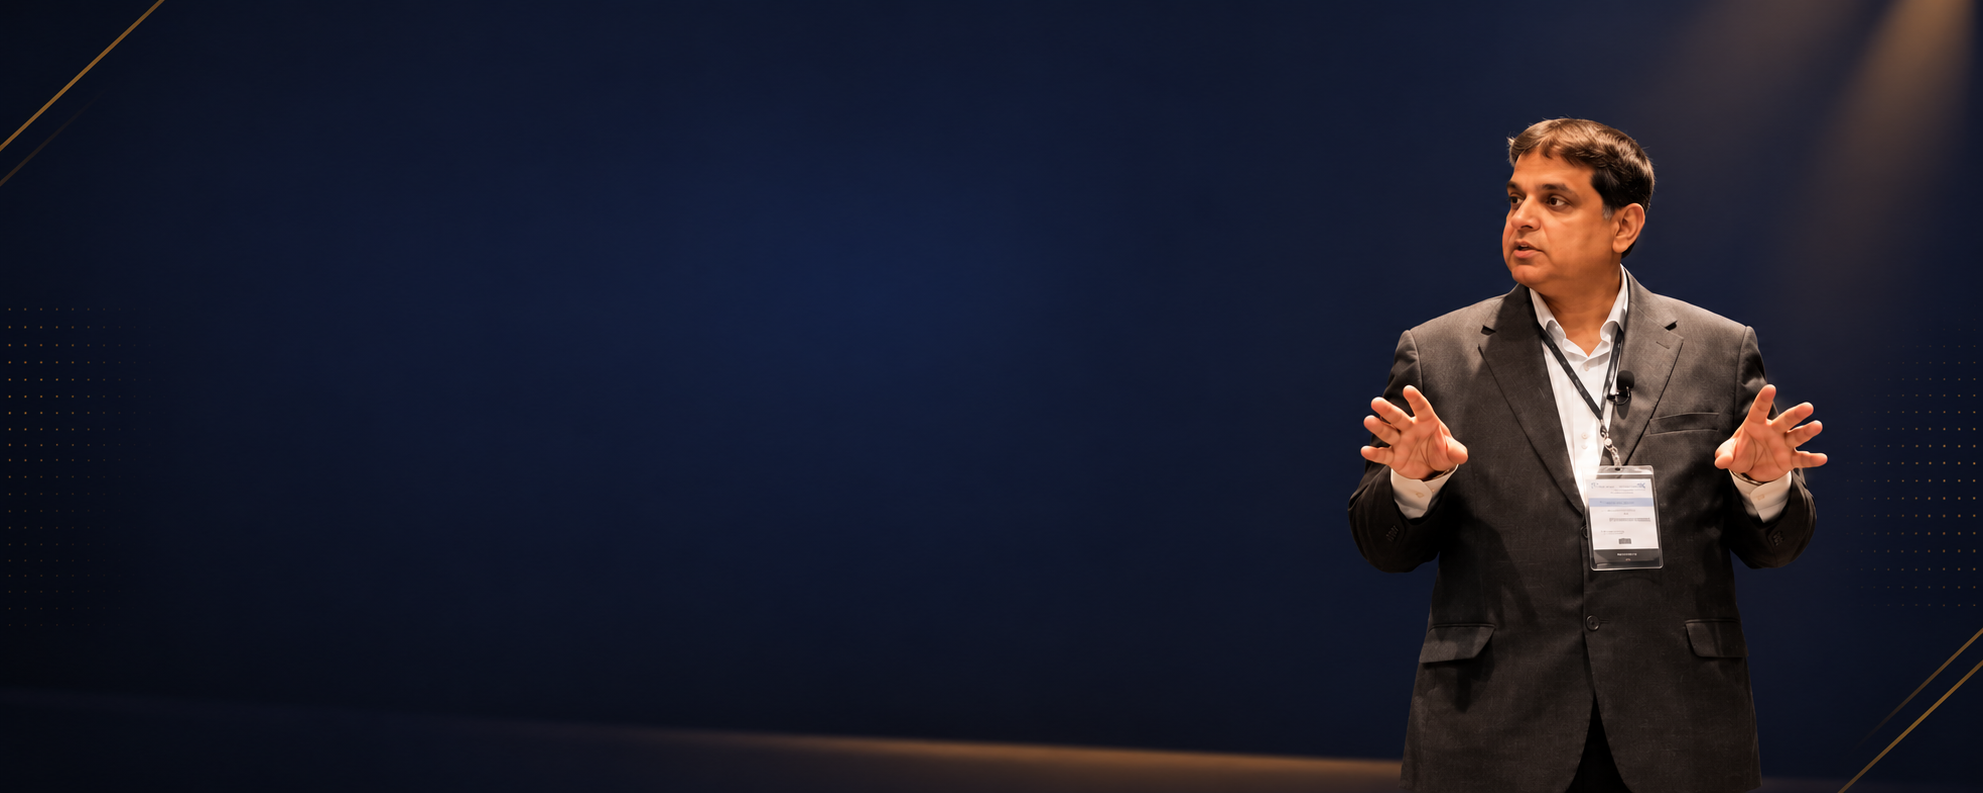
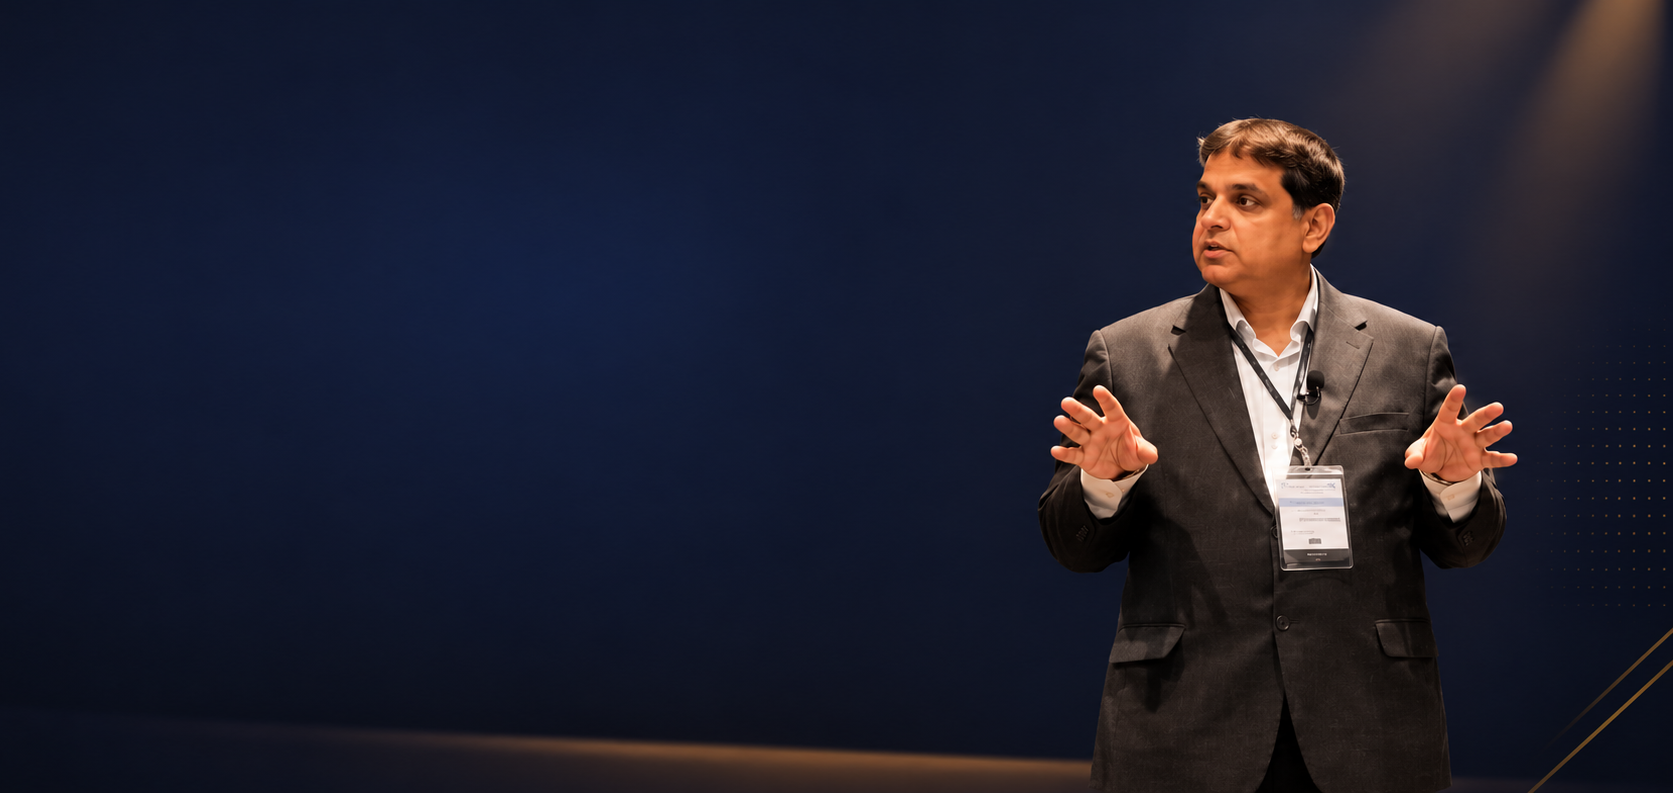
Revert hero CTAs to terracotta/outline style; update profile photo
Hero buttons switched back from the uniform cream/black indranooyi.com
style to the site's own terracotta-filled primary + white-outline
secondary pairing. Also includes an updated image/profile-photo.png
(recompressed, same content).

diff --git a/index.html b/index.html
@@ -98,20 +98,19 @@
     color: rgba(255, 255, 255, 0.88);
     margin-bottom: 2.1rem;
   }
-  /* Both hero CTAs match the reference: identical cream/black style, not primary vs outline. */
-  .hero-full-content .btn {
-    background: #EEE4DD;
-    color: #000;
-    border: none;
-    border-radius: 0;
-    font-weight: 300;
-    font-size: 1rem;
-    letter-spacing: 0.02em;
-    padding: 1.1rem 1.85rem;
+  /* Hero CTAs restored to the site's own terracotta-primary / white-outline
+     pairing per feedback, instead of matching indranooyi.com's identical
+     cream buttons. .btn-primary uses the sitewide terracotta styling
+     unchanged; .btn-outline just needs white text/border to read on the
+     dark hero photo. */
+  .hero-full-content .btn-outline {
+    color: #fff;
+    border-color: rgba(255, 255, 255, 0.7);
   }
-  .hero-full-content .btn:hover, .hero-full-content .btn:focus-visible {
+  .hero-full-content .btn-outline:hover, .hero-full-content .btn-outline:focus-visible {
     background: #fff;
-    color: #000;
+    color: var(--ink);
+    border-color: #fff;
   }
 
   @media (max-width: 640px) {
